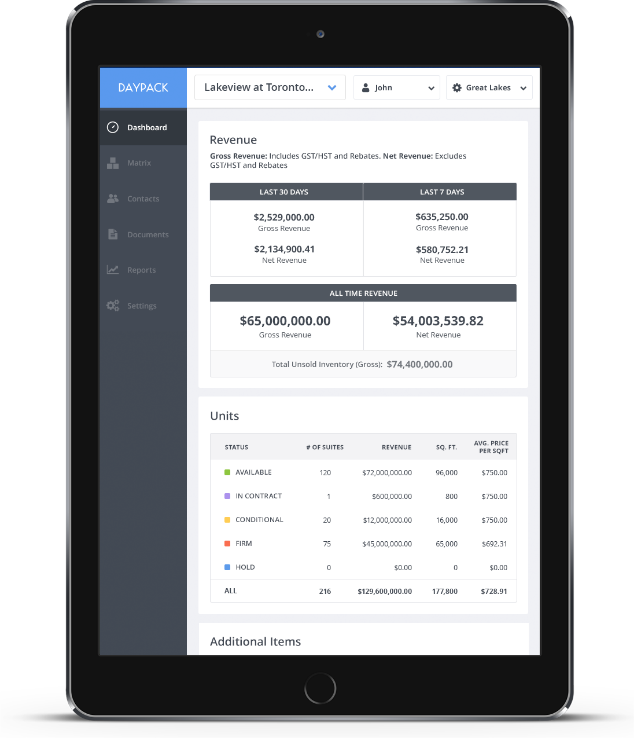
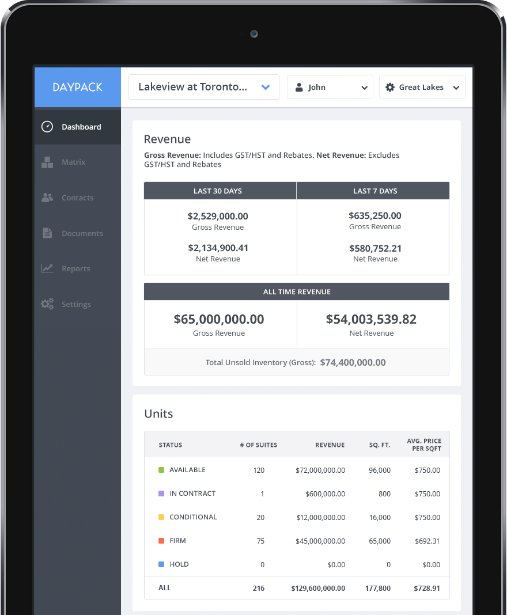
Added media querry padding to card 2

diff --git a/css/main.css b/css/main.css
@@ -85,5 +85,18 @@ html, body, #heroimage{
   margin: 0 auto;
 }
 
-/*  */
-html, body, #heroimage{
+#homecard2 {
+  padding-top: 60px;
+}
+
+@media screen and (min-width: 576px) {
+  #homecard2 {
+    padding-top: 100px;
+  }
+}
+
+@media (min-width: 768px) {
+  #homecard2 {
+    padding-bottom: 0;
+  }
+}

diff --git a/index.html b/index.html
@@ -51,7 +51,9 @@
       </div>
     </div>
       <div class="container">
+        <div id="homecard2">
           <img src="./img/ipad-dashboard.png" class="img-fluid float-right" alt="Daypack Dashboard">
+        </div>
       </div>
 
 
